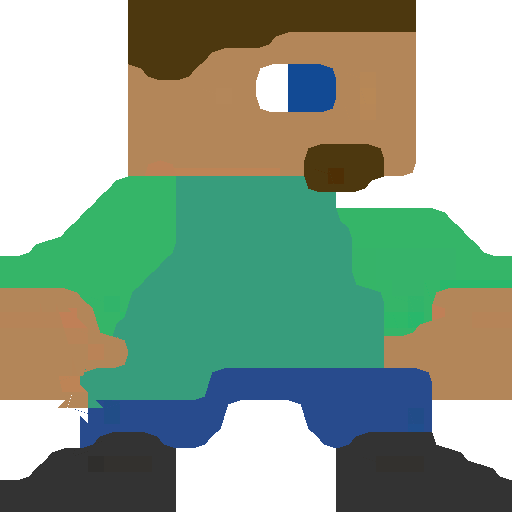
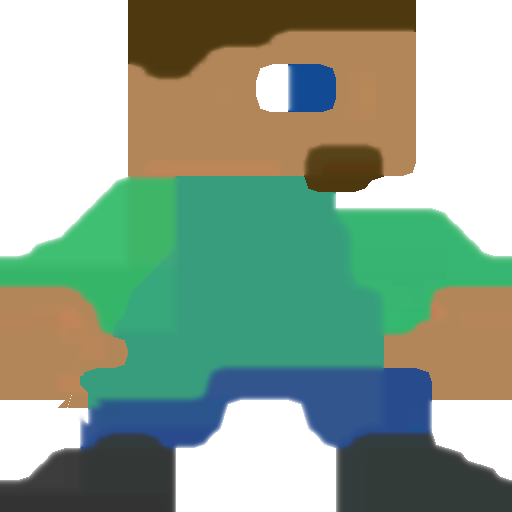
fuzzy_1.0

diff --git a/smooth.m b/smooth.m
@@ -1,0 +1,78 @@
+function [outputImg, smImg] = smooth(inputImg)
+
+[r, l, k] = size(inputImg);
+
+outputImg = inputImg;
+
+for t = 1:10 % smooth width
+    
+    for i = 1:r
+        for j = 1:l
+            yuv(i, j, :) = rgb2yuv(outputImg(i, j, :));
+        end
+    end
+    
+    for i = 2:(r-1)
+        for j = 2:(l-1)
+            center = yuv(i, j, :);
+            top = yuv(i-1, j, :); bot = yuv(i+1, j, :);
+            left = yuv(i, j-1, :); right = yuv(i, j+1, :);
+            
+            relation = [
+                isClose(center, top),
+                isClose(center, bot),
+                isClose(center, left),
+                isClose(center, right)
+            ];
+            
+            
+            smImg(i, j, :) = [0 0 0];
+            
+            % case works
+            if (sum(relation) == 4)
+                % mix
+                d_top = double(outputImg(i-1, j, :));
+                d_bot = double(outputImg(i+1, j, :));
+                d_left = double(outputImg(i, j-1, :));
+                d_right = double(outputImg(i, j+1, :));
+                outputImg(i, j, :) = uint8((d_top+d_bot+d_left+d_right)/4);
+                smImg(i, j, :) = [255 255 255];
+            end
+            
+            %{
+            % case works
+            if (sum(relation) == 0)
+                % do nothing
+            elseif (sum(relation) == 1)
+                % do nothing
+            elseif (sum(relation) == 2)
+                if ((relation(1)+relation(2)) == 2 || (relation(3)+relation(4)) == 2)
+                    % straight
+                    % do nothing
+                else
+                    % mix
+                    d_top = double(inputImg(i-1, j, :));
+                    d_bot = double(inputImg(i+1, j, :));
+                    d_left = double(inputImg(i, j-1, :));
+                    d_right = double(inputImg(i, j+1, :));
+                    outputImg(i, j, :) = uint8((d_top+d_bot+d_left+d_right)/4);
+                    sm = [i, j]
+                end
+            elseif (sum(relation) == 3)
+                % mix
+                d_top = double(inputImg(i-1, j, :));
+                d_bot = double(inputImg(i+1, j, :));
+                d_left = double(inputImg(i, j-1, :));
+                d_right = double(inputImg(i, j+1, :));
+                outputImg(i, j, :) = uint8((d_top+d_bot+d_left+d_right)/4);
+                sm = [i, j]
+            elseif (sum(relation) == 4)
+                % do nothing
+            end
+            %}
+        end
+    end
+end
+
+end
+

diff --git a/final_project.m b/final_project.m
@@ -28,10 +28,14 @@ multiple;
 blockLine;
 showCP;
 
+[resultImg, smImg] = smooth(resultImg);
+
 % cut off the border
 resultImg = restrict(resultImg, mul);
 supImg = restrict(supImg, mul);
+smImg = restrict(smImg, mul);
 
 % output the result
 imwrite(resultImg, 'output/output9.png');
 imwrite(supImg, 'output/sup9.png');
+imwrite(smImg, 'output/sm9.png');

diff --git a/isClose.m b/isClose.m
@@ -1,0 +1,14 @@
+function value = isClose(yuv1, yuv2)
+
+y = abs(yuv1(1)-yuv2(1));
+u = abs(yuv1(2)-yuv2(2));
+v = abs(yuv1(3)-yuv2(3));
+
+if(y<=80 && u<=10 && v<=10)
+    value = true;
+else
+    value = false;
+end
+
+end
+

diff --git a/rgb2yuv.m b/rgb2yuv.m
@@ -1,0 +1,9 @@
+function yuv = rgb2yuv(inputImg)
+
+r = inputImg(1, 1, 1);
+g = inputImg(1, 1, 2);
+b = inputImg(1, 1, 3);
+yuv = [0.299*r+0.587*g+0.114*b,-0.169*r-0.331*g+0.5*b+128,0.5*r-0.419*g-0.081*b+128];
+
+end
+

diff --git a/mixrgb.m b/mixrgb.m
@@ -1,0 +1,8 @@
+function result = mixrgb(top, bot, left, right)
+
+[top, bot, left, right] = double(top, bot, left, right);
+result = sum(top, bot, left, right);
+result = uint8(result);
+
+end
+
